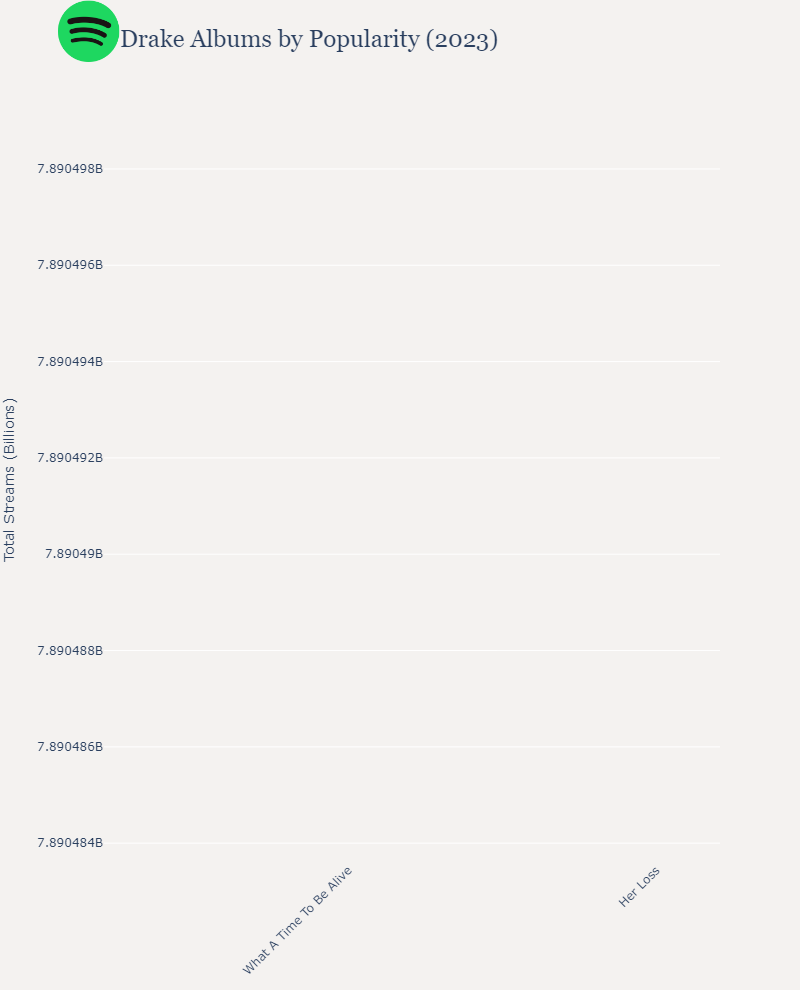
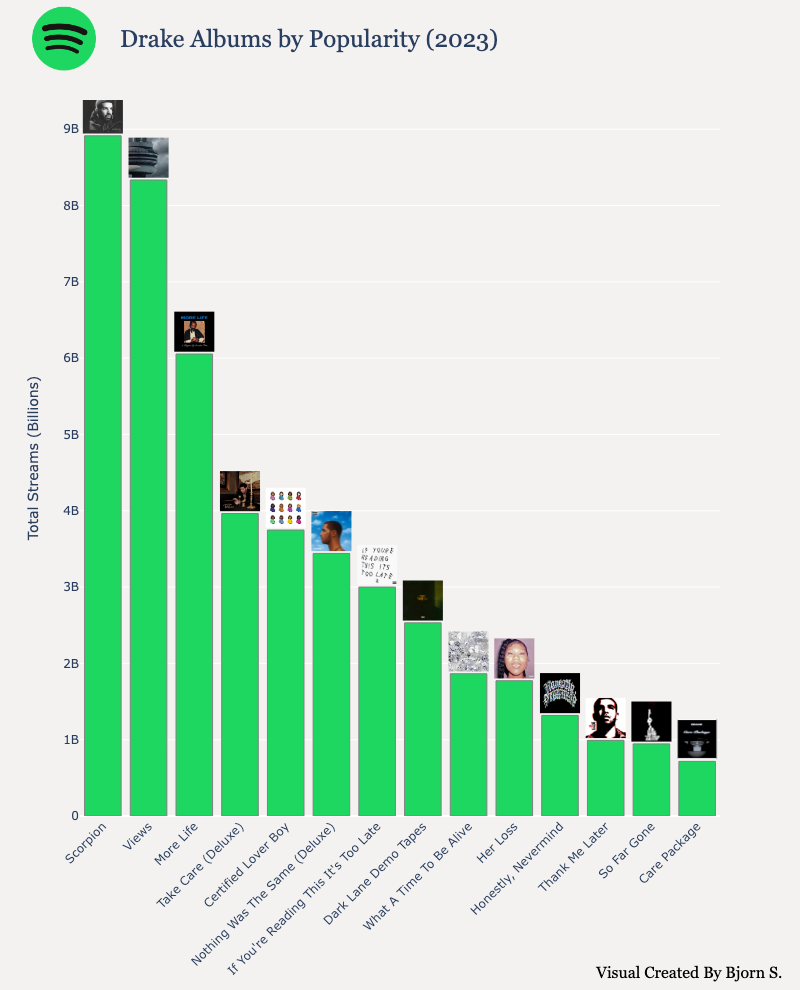
finished?

diff --git a/README.md b/README.md
@@ -1,5 +1,4 @@
-# What Makes Drake Popular?
-Analyzing Drake's Discography
+# Analyzing Drake's Discography
 
 ![Drake](https://people.com/thmb/KgS-U2MoKqWX3YWAbmhoGtkszIE=/1500x0/filters:no_upscale():max_bytes(150000):strip_icc():focal(959x305:961x307)/drake-annouces-tour-031423-c2f3a04d41bc41048f91dda62543b072.jpg)
 
@@ -7,9 +6,9 @@ Analyzing Drake's Discography
 
 A 5-time Grammy Awards winner, 29-time Billboard Music Award winner, 2021's Favorite Rap/Hip-Hop Male Artist and pop culture superstar.
 
-Oh, and the Artist of the Decade.
+The most impressive accolade? The 2010's Artist of the Decade.
 
-Aubrey Graham, otherwise known as "Drake", has cemented a legendary career in music spanning over 17 years.
+Aubrey Graham, otherwise known as "Drake", has cemented a legendary career in the music industry spanning over 17 years.
 
 The Canadaian rapper began his incredible run after his start in TV. Appearing in Degrassi (2001-2015), Drake played the character Jimmy.
 
@@ -17,7 +16,9 @@ The Canadaian rapper began his incredible run after his start in TV. Appearing i
 
 As a Drake fan, I've listened to his music for over a decade. His ability to stay relevant in the ever-competitive music industry speaks to natural talent to keep his followers entertained with new flows.
 
-This data project was inspired by Spotify's annual Unwrapped project. Unwrapped has been a well received concept from Spotify that aims at unveiling fun insights from their user data without being too intrusive. I always find it interesting to see the type of music people that I know are into, as music can reveal more to their personalities. I must admit that last year was an extreme for my Drake fix, proven by one of the stories Spotify Unwrapped showed me:
+This data project was inspired by Spotify's annual Unwrapped project. Unwrapped has been a well received concept from Spotify that aims at unveiling fun insights from their user data every year without being too intrusive. 
+
+I must admit that last year was an extreme for my Drake fix, proven by one of the stories Spotify Unwrapped showed me:
 
 ![Unwrapped](unwrapped.png)
 
@@ -29,16 +30,141 @@ This data project was inspired by Spotify's annual Unwrapped project. Unwrapped 
 
 ![Unwrapped2](unwrapped2.png)
 
-Here's another story I was shown. In other words, I'm a HEAVY Spotify user (translates to ~4 hours/day :open_mouth:).
+This translates to around ~4 hours of streaming a day 😮
+
+Take what you will from that information!
+
 ## Data
 
 To collect the data, I utilized Spotify's Web API. You first have to create an app in order to authorize your requests to the API as well as obtaining an access token. If you'd like to peform analysis for other artists, check their documentation [here](https://developer.spotify.com/documentation/web-api).
 
-Some of the final dataset had to be preprocessed/feature engineered. While the Web API provides most of the core features, I had to do some further cleansing. Date variables, track length, artists on tracks are just some that I had to play around with to get it ready for analysis. 
+Some of the final dataset had to be preprocessed/feature engineered. While the Web API provides most of the core features, I had to do some further cleansing. Date variables, track length, artists on tracks are just some that I had to play around with to get it ready for analysis. To check out the entire data wrangling process, see the Python notebook in the repo.
 
-**NOTE:** Spotify's API does not provide the number of streams for a given track, so I had to manually enter the number of streams for all songs on Drake albums through the Spotify app. It was time consuming but I did not really have any other alternative. Spotify on web browser also hides this data so my attempt at web-scraping was unsuccessful. The values for the ```Plays``` variable was entered on **April 26th, 2022**.
+**NOTICE:** 
+
+* Spotify's API does not provide the number of streams for a given track, so I had to manually enter the number of streams for all songs on Drake albums through the Spotify app. It was time consuming but I did not have any other alternative. Spotify on web browser also hides this data so my attempt at web-scraping was unsuccessful. The values for the ```Plays``` variable was entered on **April 26th, 2023**. This snapshot of how many times each song has been streamed is no longer accurate.
+
+
+* I removed the album **Nothing Was The Same (2013)** since the deluxe contained all of the original songs. Keeping the original album would have been redundant.
+
+* Fans might argue that **Dark Lane Demo Tapes (2020)** was not an album, but rather a mixtape of individual songs packaged into a collection. I decided to keep the 'album'. Stringing to the same tune, **Care Package (2019)** is also not considered a true album as it's a compilation of songs between 2010-2016. I decided to keep this.
+
 
 Lets dig in!
 
-## Analysis
+## Analysis (Popularity)
 
+```
+data.head()
+```
+
+![Head](/screenshots/head.png)
+
+More features are not shown in this snapshot. Drake's album discography contains 14 albums, 243 songs with the final dataset containing 31 features - 
+
+```
+
+data.info()
+
+Data columns (total 31 columns):
+ #   Column                    Non-Null Count  Dtype  
+---  ------                    --------------  -----  
+ 0   Album                     243 non-null    object 
+ 1   Release Date              243 non-null    object 
+ 2   Release Year              243 non-null    int64  
+ 3   Release Month             243 non-null    int64  
+ 4   Release Month (Name)      243 non-null    object 
+ 5   Release Day               243 non-null    int64  
+ 6   Release Day (Name)        243 non-null    object 
+ 7   Album ID                  243 non-null    object 
+ 8   Number of Album Songs     243 non-null    int64  
+ 9   Song Name                 243 non-null    object 
+ 10  Plays                     243 non-null    int64  
+ 11  Artist                    243 non-null    object 
+ 12  Song ID                   243 non-null    object 
+ 13  Track Duration            243 non-null    object 
+ 14  Track Duration (Minutes)  243 non-null    int64  
+ 15  Track Duration (Seconds)  243 non-null    int64  
+ 16  Track Number              243 non-null    int64  
+ 17  Number of Artists         243 non-null    int64  
+ 18  Danceability              243 non-null    float64
+ 19  Energy                    243 non-null    float64
+ 20  Key                       243 non-null    int64  
+ 21  Loudness                  243 non-null    float64
+ 22  Speechiness               243 non-null    float64
+ 23  Acousticness              243 non-null    float64
+ 24  Instrumentalness          243 non-null    float64
+ 25  Liveness                  243 non-null    float64
+ 26  Valence                   243 non-null    float64
+ 27  Tempo                     243 non-null    float64
+ 28  Artist 1                  243 non-null    object 
+ 29  Artist 2                  95 non-null     object 
+ 30  Artist 3                  19 non-null     object 
+dtypes: float64(9), int64(10), object(12)
+
+```
+
+Summary Statistics - 
+
+```
+data.describe()
+```
+
+![Describe](/screenshots/describe.png)
+
+Now that the data has been introduced, let's investigate some questions regarding his catalog.
+
+
+### How Are Album's Ranked?
+
+![Album Popularity](graphs/q1.png)
+
+Not surprising to see Scorpion and Views taking the top 2 most popular Drake albums. Some of his most popular tracks appear in these albums, from *God's Plan, In My Feelings, One Dance and Hotline Bling*. Do you remember where you were when these songs released? 
+
+[![Watch the video](https://cdn.theatlantic.com/thumbor/pfZ0QSpdaJ31DdOaJ9sce8gcdoc=/112x0:1712x900/1600x900/media/img/mt/2018/02/drake_gods_plan/original.png)](https://www.youtube.com/watch?v=xpVfcZ0ZcFM&source_ve_path=MTc4NDI0&ab_channel=DrakeVEVO)
+
+
+Part of the reason why Drake has sustained mainstream status in the music industry is thanks to catchy, iconic hits like these songs. Whether by lyrics, memes, or music videos, his relatability to the pop culture scene is uncanny. Staying relevant for this long is no easy feat, as most have just a few hits before vanishing from mainstream music.
+
+However, it's worthy to note some of his worst peforming albums. His most recent albums, Her Loss and Honestly, Nevermind just released last year. It would be immature to take this graph at face value without understanding context. Give these albums time. Especially Her Loss, which is without a doubt been given positive feedback by most of his audience.
+
+<iframe style="border-radius:12px" src="https://open.spotify.com/embed/album/5MS3MvWHJ3lOZPLiMxzOU6?utm_source=generator" width="100%" height="152" frameBorder="0" allowfullscreen="" allow="autoplay; clipboard-write; encrypted-media; fullscreen; picture-in-picture" loading="lazy"></iframe>
+
+
+Speaking of popularity, what are his most popular songs?
+
+### Top Tracks
+
+![Song Popularity](graphs/q2.png)
+
+At first glance, I'm actually surprised One Dance is his most popular song. I thought it would be God's Plan because of how it exploded across streaming sites in addition to it's music video that was released.
+
+It's also interesting that the majority of songs in this list are either released as a Single or EP(extended play). To my knowledge, God's Plan (Scary Hours), One Dance, Hotline Bling, and Toosie Slide are considered a Single/EP. It's almost as if Drake knew these tracks would be a hit!
+
+Unfortunately, I couldn't seem to have the chart color-coded without having it grouped by album in plotly. Regardless, here it is:
+
+![Song Popularity 2](graphs/q3.png)
+
+As expected, his most popular tracks are also featured in his most popular albums. Toosie Slide is the exception, as this was a single that took the music industry by storm with the catchy, Tik-Tok friendly track. During lockdown, Drake delivered with a fun, danceable track. He also produced a music video, showcasing his _ridiculuously_ beautiful $100 million Canadian home estate. Check it out below!
+
+
+[![Toosie Slide](https://static.onecms.io/wp-content/uploads/sites/6/2020/04/03/drake-2.jpg)](https://www.youtube.com/watch?v=xWggTb45brM&ab_channel=DrakeVEVO)
+
+Here's the list with his most popular song on each album:
+
+```
+q3 = pysqldf("SELECT Album, [Song Name], MAX(Plays) AS Streams 
+                FROM data
+                GROUP BY Album 
+                ORDER BY MAX(Plays) DESC"
+            )
+```
+![Popular Song By Album](/screenshots/top_tracks_by_album.png)
+
+## Analysis (Artists)
+
+Artists such as Travis Scott, Kanye West, 21 Savage, and Rihanna have appeared on Aubrey's discography. Featuring other artists on albums can prove effective in joining fanbases, providing an alternative sound to the album, and increase hype. Personally, I try to listen to songs with features first before exploring solos whenever Drake drops an album. They tend to be the most listened to.
+
+How do Drake songs perform when comparing between solos and songs with features?
+
+###
